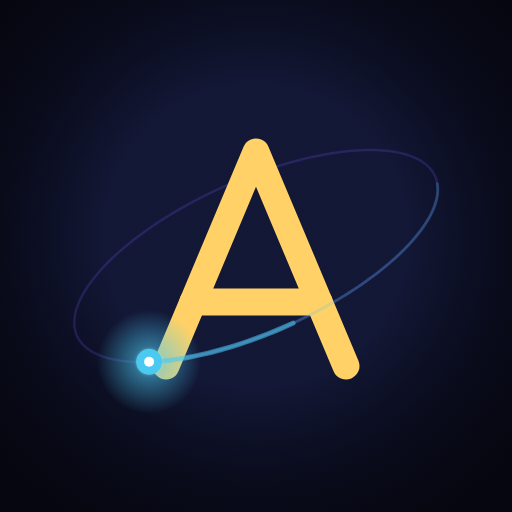
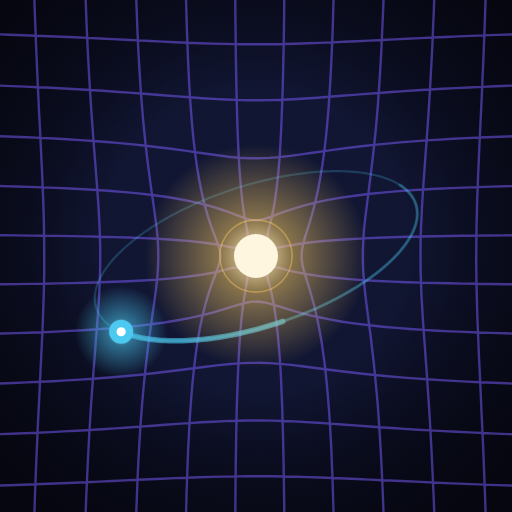
Make the profile mark the gravity well, not the monogram
A body orbits a mass that visibly bends the lattice around it. The lattice is
static because the only mass heavy enough to bend it does not move; the
orbiting body is a test particle, far too light to dent the sheet.

Changed region(s): [[0.0, 0.0, 1.0, 1.0]]

diff --git a/tools/gen_avatar.py b/tools/gen_avatar.py
@@ -1,18 +1,19 @@
 """
-Bakes the profile mark into a looping animated SVG: a body on a tilted circular
-orbit around a monogram.
+Bakes the profile mark into a looping animated SVG: a body orbiting a mass that
+visibly bends the lattice around it.
 
 Same constraint as the banner -- README images run inside <img>, where no
 JavaScript executes -- so the motion is pre-computed and carried by SMIL.
+
+The lattice is static. That is not a shortcut: the only mass heavy enough to
+bend it visibly is the one at the centre, and that one does not move. The
+orbiting body is a test particle, far too light to dent the sheet.
 
 The orbit is a circle in its own plane, viewed at an inclination, so on screen
 it reads as an ellipse. The body moves at a constant angular rate in that plane,
 which is NOT constant speed along the drawn ellipse: it appears to slow at the
 turns and hurry through the middle. That timing is what keyPoints/keyTimes
 carries -- arc-length fraction plotted against fraction of the period.
-
-The monogram is drawn as geometry rather than text so it renders identically
-everywhere, with no dependency on a font being installed.
 
     python tools/gen_avatar.py        # -> assets/avatar.svg
 """
@@ -22,14 +23,44 @@ import os
 S = 512                                    # square canvas
 BG = "#05060f"
 VIOLET, CYAN, GOLD = "#7c5cff", "#4cc9f0", "#ffd166"
+CX = CY = S / 2.0
 
-DUR = 12.0                                 # seconds per orbit
+DUR = 14.0                                 # seconds per orbit
 N = 240                                    # samples around the orbit
 TS = 48                                    # keyTimes resolution
-R_ORB = 196.0                              # orbital radius, in the plane
-TILT = 0.39                                # cos of the viewing inclination
-ROLL = math.radians(-24.0)                 # plane's roll on screen
-CX = CY = S / 2.0
+R_ORB = 168.0                              # orbital radius, in the plane
+TILT = 0.42                                # cos of the viewing inclination
+ROLL = math.radians(-18.0)                 # plane's roll on screen
+PULL = 5200.0                              # how hard the mass drags the lattice
+
+
+# ------------------------------------------------------------------- the well
+def warp(px, py):
+    """Pull a lattice node toward the mass, falling off as 1/distance."""
+    ox, oy = px - CX, py - CY
+    d = math.hypot(ox, oy) + 26.0
+    pull = min(PULL / d, d * 0.62)
+    return px - ox / d * pull, py - oy / d * pull
+
+
+def line_d(pts):
+    return "M%.1f,%.1f" % pts[0] + "".join("L%.1f,%.1f" % p for p in pts[1:])
+
+
+STEP, FINE, PAD = 52.0, 13.0, 130.0
+grid = []
+g = -PAD
+while g <= S + PAD + 0.1:
+    row, col, t = [], [], -PAD
+    while t <= S + PAD + 0.1:
+        row.append(warp(t, g))
+        col.append(warp(g, t))
+        t += FINE
+    grid.append(line_d(row))
+    grid.append(line_d(col))
+    g += STEP
+GRID = ('<g fill="none" stroke="%s" stroke-width="2.4" opacity="0.5">'
+        '<path d="%s"/></g>' % (VIOLET, "".join(grid)))
 
 
 # ------------------------------------------------------------------ the orbit
@@ -47,10 +78,8 @@ def orbit(n=N):
 PTS = orbit()
 
 
-def path_d(pts, close=True):
-    return ("M%.2f,%.2f" % pts[0]
-            + "".join("L%.2f,%.2f" % p for p in pts[1:])
-            + ("Z" if close else ""))
+def path_d(pts):
+    return "M%.2f,%.2f" % pts[0] + "".join("L%.2f,%.2f" % p for p in pts[1:]) + "Z"
 
 
 def key_pairs(pts):
@@ -70,10 +99,9 @@ def key_pairs(pts):
     kp, kt = [], []
     for i in range(TS + 1):
         f = i / TS
-        x = f * (len(pts))
+        x = f * len(pts)
         j = min(int(x), len(pts) - 1)
-        frac = x - j
-        d = seg[j] + (seg[j + 1] - seg[j]) * frac
+        d = seg[j] + (seg[j + 1] - seg[j]) * (x - j)
         kp.append("%.5f" % (d / total))
         kt.append("%.5f" % f)
     return ";".join(kp), ";".join(kt), total
@@ -89,62 +117,58 @@ def motion(begin=0.0):
             % (DUR, begin, KP, KT))
 
 
-# --------------------------------------------------------------- the monogram
-# An "A" as two legs and a crossbar, so it needs no font to be installed.
-APEX = (256.0, 152.0)
-FOOT_L, FOOT_R = (166.0, 366.0), (346.0, 366.0)
-BAR_Y = 302.0
-_t = (BAR_Y - APEX[1]) / (FOOT_L[1] - APEX[1])
-BAR_L = (APEX[0] + (FOOT_L[0] - APEX[0]) * _t, BAR_Y)
-BAR_R = (APEX[0] + (FOOT_R[0] - APEX[0]) * _t, BAR_Y)
-
-MONOGRAM = ('<g fill="none" stroke="%s" stroke-width="27" '
-            'stroke-linecap="round" stroke-linejoin="round">'
-            '<path d="M%.1f,%.1f L%.1f,%.1f L%.1f,%.1f"/>'
-            '<path d="M%.1f,%.1f L%.1f,%.1f"/></g>'
-            % (GOLD, FOOT_L[0], FOOT_L[1], APEX[0], APEX[1],
-               FOOT_R[0], FOOT_R[1], BAR_L[0], BAR_L[1], BAR_R[0], BAR_R[1]))
-
 # ------------------------------------------------------------------ the comet
 # A single dashed stroke whose dash-offset follows the same timing, so the
 # bright dash stays pinned to the body and trails behind it.
-TAILS = ((150.0, 5.0, 0.55), (360.0, 3.0, 0.22))
-tail_svg = []
-for length, width, op in TAILS:
+tails = []
+for length, width, op in ((165.0, 5.5, 0.60), (380.0, 3.2, 0.24)):
     vals = ";".join("%.1f" % (length - PLEN * float(f)) for f in KP.split(";"))
-    tail_svg.append('<use xlink:href="#trk" href="#trk" fill="none" '
-                    'stroke="%s" stroke-width="%.1f" stroke-linecap="round" '
-                    'opacity="%.2f" stroke-dasharray="%g %g">'
-                    '<animate attributeName="stroke-dashoffset" dur="%gs" '
-                    'repeatCount="indefinite" calcMode="linear" values="%s" '
-                    'keyTimes="%s"/></use>'
-                    % (CYAN, width, op, length, PLEN - length, DUR, vals, KT))
+    tails.append('<use xlink:href="#trk" href="#trk" fill="none" stroke="%s" '
+                 'stroke-width="%.1f" stroke-linecap="round" opacity="%.2f" '
+                 'stroke-dasharray="%g %g">'
+                 '<animate attributeName="stroke-dashoffset" dur="%gs" '
+                 'repeatCount="indefinite" calcMode="linear" values="%s" '
+                 'keyTimes="%s"/></use>'
+                 % (CYAN, width, op, length, PLEN - length, DUR, vals, KT))
 
 SVG = ('<svg xmlns="http://www.w3.org/2000/svg" '
        'xmlns:xlink="http://www.w3.org/1999/xlink" '
        'width="%d" height="%d" viewBox="0 0 %d %d" role="img" '
-       'aria-label="A monogram A with a body orbiting it on a tilted ellipse.">'
-       '<defs>'
-       '<path id="trk" d="%s"/>'
+       'aria-label="A mass bending a lattice of spacetime, with a body '
+       'orbiting it.">'
+       '<defs><path id="trk" d="%s"/>'
+       '<radialGradient id="core">'
+       '<stop offset="0" stop-color="#fff6e0" stop-opacity="0.98"/>'
+       '<stop offset="0.32" stop-color="%s" stop-opacity="0.5"/>'
+       '<stop offset="1" stop-color="%s" stop-opacity="0"/></radialGradient>'
        '<radialGradient id="glow">'
        '<stop offset="0" stop-color="#ffffff" stop-opacity="0.95"/>'
        '<stop offset="0.3" stop-color="%s" stop-opacity="0.5"/>'
        '<stop offset="1" stop-color="%s" stop-opacity="0"/></radialGradient>'
-       '<radialGradient id="vig" cx="50%%" cy="46%%" r="74%%">'
-       '<stop offset="0.4" stop-color="#161c40" stop-opacity="0.8"/>'
+       '<radialGradient id="vig" cx="50%%" cy="47%%" r="74%%">'
+       '<stop offset="0.4" stop-color="#151b3e" stop-opacity="0.75"/>'
        '<stop offset="1" stop-color="%s" stop-opacity="0"/></radialGradient>'
        '</defs>'
        '<rect width="%d" height="%d" fill="%s"/>'
        '<rect width="%d" height="%d" fill="url(#vig)"/>'
+       '%s'
        '<use xlink:href="#trk" href="#trk" fill="none" stroke="%s" '
-       'stroke-width="2.5" opacity="0.20"/>'
+       'stroke-width="2.2" opacity="0.22"/>'
        '%s'
-       '%s'
-       '<g><circle r="52" fill="url(#glow)"/>'
-       '<circle r="13" fill="%s"/><circle r="5" fill="#ffffff"/>%s</g>'
+       '<circle cx="%g" cy="%g" r="112" fill="url(#core)"/>'
+       '<circle cx="%g" cy="%g" r="22" fill="#fff6e0"/>'
+       '<circle cx="%g" cy="%g" r="30" fill="none" stroke="%s" '
+       'stroke-width="1.6">'
+       '<animate attributeName="r" values="26;62;26" dur="%gs" '
+       'repeatCount="indefinite"/>'
+       '<animate attributeName="opacity" values="0.55;0;0.55" dur="%gs" '
+       'repeatCount="indefinite"/></circle>'
+       '<g><circle r="46" fill="url(#glow)"/>'
+       '<circle r="12" fill="%s"/><circle r="4.6" fill="#ffffff"/>%s</g>'
        '</svg>'
-       % (S, S, S, S, path_d(PTS), CYAN, CYAN, BG, S, S, BG, S, S,
-          VIOLET, MONOGRAM, "".join(tail_svg), CYAN, motion()))
+       % (S, S, S, S, path_d(PTS), GOLD, GOLD, CYAN, CYAN, BG,
+          S, S, BG, S, S, GRID, CYAN, "".join(tails),
+          CX, CY, CX, CY, CX, CY, GOLD, DUR / 2, DUR / 2, CYAN, motion()))
 
 root = os.path.dirname(os.path.dirname(os.path.abspath(__file__)))
 out = os.path.join(root, "assets", "avatar.svg")
